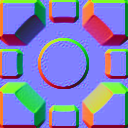
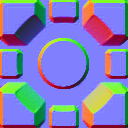
에디터 다리 추가

diff --git a/sfml-template/Objects/Bridge.h b/sfml-template/Objects/Bridge.h
@@ -1,8 +1,8 @@
 #pragma once
-#include "SpriteObj.h"
+#include "WireableObject.h"
 #include "Button.h"
 
-class Bridge : public SpriteObj
+class Bridge : public WireableObject
 {
 public:
 	Bridge();
@@ -10,6 +10,8 @@ public:
 	virtual ~Bridge();
 	virtual void Update(float dt);
 	virtual void Draw(RenderWindow& window);
+
+	virtual SpriteObj* NewThis() { return new Bridge; }
 protected:
 	list<Button*> button;
 	vector<int>buttonid;

diff --git a/sfml-template/Objects/Bridge.cpp b/sfml-template/Objects/Bridge.cpp
@@ -2,6 +2,11 @@
 
 Bridge::Bridge()
 {
+	SetResourceTexture("Graphics/temp/bridge.png");
+	id = 'l';
+
+	objSize = ObjectSize::Normal;
+	type = ObjectType::Catcher;
 }
 
 Bridge::Bridge(b2World* world, const Vector2f& position, Vector2f dimensions, int dir)
@@ -39,4 +44,5 @@ void Bridge::Update(float dt)
 
 void Bridge::Draw(RenderWindow& window)
 {
+	WireableObject::Draw(window);
 }

diff --git a/sfml-template/Scene/PlayScene.cpp b/sfml-template/Scene/PlayScene.cpp
@@ -887,9 +887,6 @@ void PlayScene::Input()
 			return;
 		zoomCount++;
 		worldView.zoom(0.94f);
-
-		width * 0.94f;
-		height * 0.94f;
 	}
 	if (InputMgr::GetMouseWheelState() == -1)
 	{
@@ -897,10 +894,6 @@ void PlayScene::Input()
 			return;
 		zoomCount--;
 		worldView.zoom(1.06f);
-
-		width * 1.06f;
-		height * 1.06f;
-
 	}
 
 	if (InputMgr::GetMouseButton(Mouse::Middle))

diff --git a/sfml-template/Scene/EditScene.cpp b/sfml-template/Scene/EditScene.cpp
@@ -1081,6 +1081,9 @@ void EditScene::FillUiToolBox()
 
 	uiTool[1][1].first = new Tunnel;
 	uiTool[1][1].first->SetResourceTexture("Graphics/Ui/tbeam.png");
+
+	uiTool[1][2].first = new Bridge;
+	uiTool[1][2].first->SetResourceTexture("Graphics/Ui/bridge.png");
 }
 
 void EditScene::SetUiToolPos(Vector2f pos)

diff --git a/sfml-template/Objects/Cube.cpp b/sfml-template/Objects/Cube.cpp
@@ -155,7 +155,7 @@ void Cube::Draw(RenderWindow& window)
 void Cube::Draw(RenderTexture& diffuse, Shader& nShader, RenderTexture& normal)
 {
 	diffuse.draw(frontFace);
-	NormalPass(normal, frontFace, normalMap, nShader);
+	NormalPass(normal, frontFace, this->normal, nShader);
 }
 
 void Cube::SetSide(bool s)

diff --git a/sfml-template/FrameWork/ObjectHeaders.h b/sfml-template/FrameWork/ObjectHeaders.h
@@ -9,3 +9,4 @@
 #include "../Objects/Blue.h"
 #include "../Objects/Wire.h"
 #include "../Objects/Tunnel.h"
+#include "../Objects/Bridge.h"
